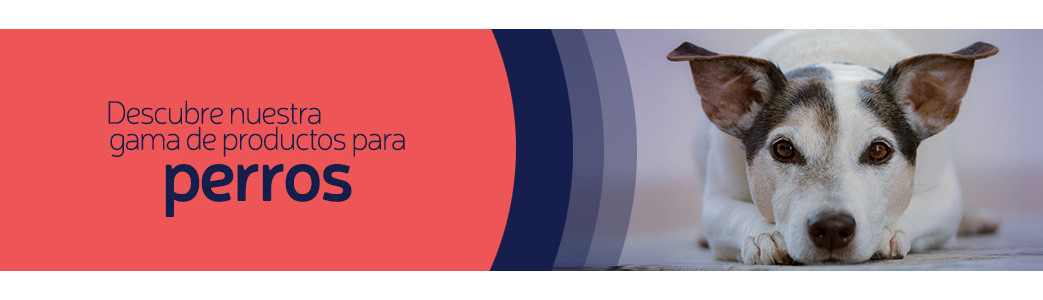
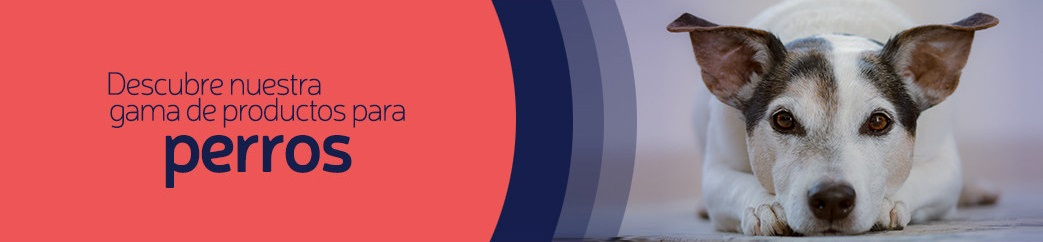
Arreglo en tienda y readme

diff --git a/public/css/tienda.css b/public/css/tienda.css
@@ -4,19 +4,12 @@ body {
 }
 
 .banner {
-    background-image: url('/img/tienda/perro-banner2.jpg');
-    background-size: cover;
-    min-height: 60vh;
+    background-image: url('/img/tienda/perro-banner.jpg');
+    background-size: 100%;
+    min-height: 25vw;
     position: relative;
+    background-repeat: no-repeat;
 }
-
-.banner .h1{
-    position: absolute;
-    width: 100%;
-    height: 100%;
-    text-shadow: 2px 2px 2px rgba(0, 0, 0, 0.3);
-}
-
 
 
 .product-box {
@@ -45,15 +38,12 @@ body {
 
 
 
-
-
 .contenedor-productos { 
     margin-top: 30px;
     margin-bottom: 30px;
     text-align:center;
   }
   
-
   
   .producto {
     position: relative;

diff --git a/README.md b/README.md
@@ -1,10 +1,10 @@
 ## Resumen   
-- [Temática](#Presentación del Proyecto)
+- [Temática](#Presentación-del-Proyecto)
 - [Descripción](#Descripción)
 - [Publico de Objetivo](#Público-de-Objetivo)
 - [Fundamentación](#Fundamentación)
 - [Webs Referentes](#Webs-Referentes)
-- [Integrantes del grupo](#Listado-de-Grupo)
+- [Integrantes del grupo](#Integrantes-del-grupo)
 - [Tablero de trabajo](#Tablero-de-trabajo) 
 <br  />
 
@@ -81,7 +81,7 @@
 <br  />
 
 
-# Listado de Grupo
+# Integrantes del grupo
 
 ### Myriam Alvarez:
 #### Técnica Parlamentaria; especializada en investigación, redacción y gestión de proyectos. Mi primer incursión al mundo digital fué a través de un curso de E-Commerce y Marketing Digital que me permitió conocer y comenzar a entender un mundo que me era absolutamente ajeno ( sólo utilizaba buscadores, word y correo electrónico). Mi objetivo es poder reciclarme laboralmente y sumar a mi experiencia los recursos de la programación y de la tecnología para incorporarme a “nuevos proyectos”. 
@@ -89,15 +89,13 @@
 <br  />
 
 ### Nathaniel Boyd:
-#### Técnico Univeristario en Informática, Actor de Método. Deseoso por adquirir habilidades para estar entre los mejores desarolladores, vivir como nómada digital y crear proyectos que aporten valor sustentable y trascendental a las personas. 
+#### Técnico Univeristario en Informática. Deseoso por adquirir habilidades para estar entre los mejores desarolladores, vivir como nómada digital y crear proyectos que aporten valor sustentable y trascendental a las personas. 
 
 <br  />
 
 ### Juana Colaneri:
 #### Me dicen Juanita, soy Licenciada en Administración de la Universidad de Buenos Aires, Argentina. Me gusta repensar, perfeccionar y gestionar procesos que involucren una mejora en la organización de las circunstancias que se me presentan. 
 #### Entiendo particularmente a la tecnología como una aliada de las personas, que permite optimizar la calidad del trabajo sin perder tiempo, practicidad y eficacia.
-
-<br  />
 
 <br  />
 
@@ -116,9 +114,6 @@
 
 #### https://drive.google.com/drive/u/0/folders/1BvgCM6dvm3Tdu1JKoBjssvZBeONCz2i9
 
-# Font
-
-#### https://fonts.google.com/specimen/Baloo+2?query=baloo+2
 
 
 
